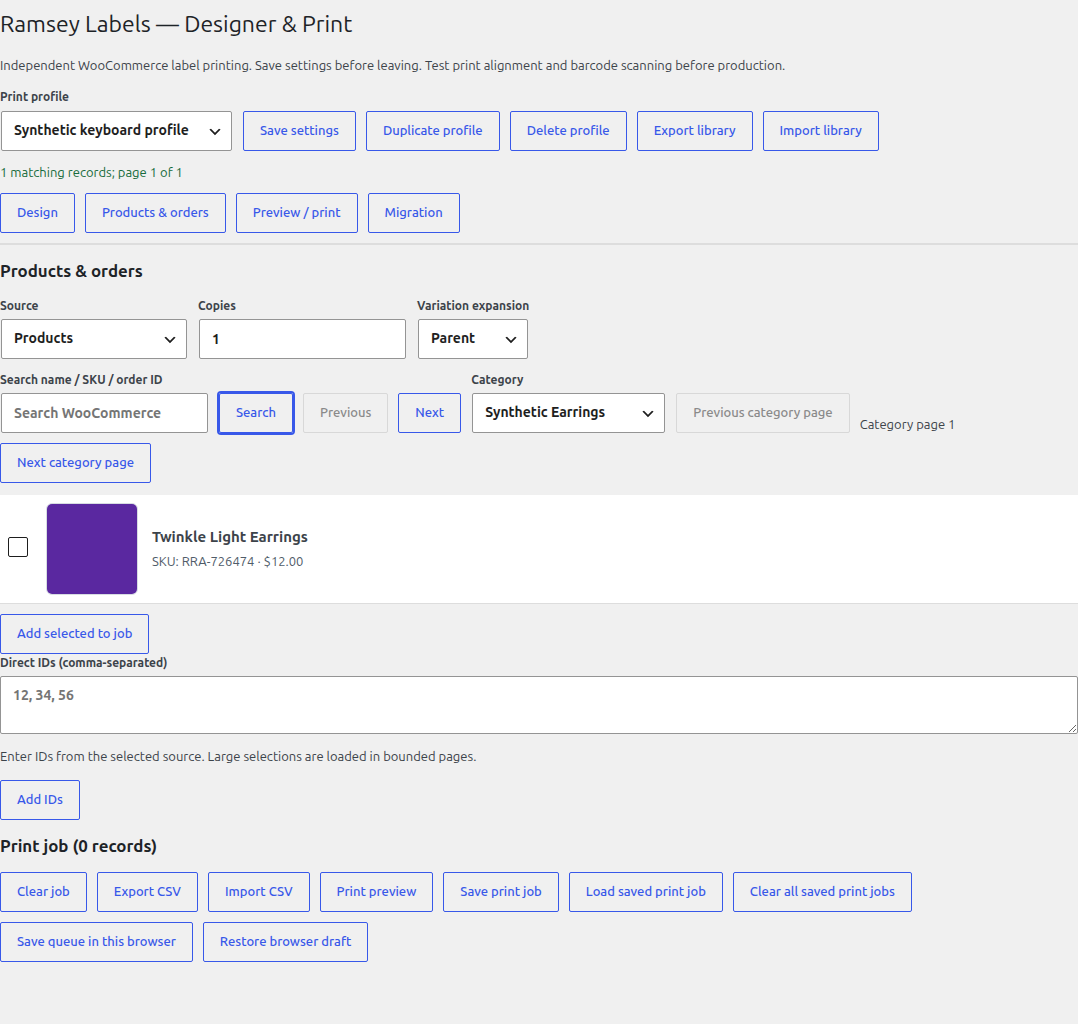
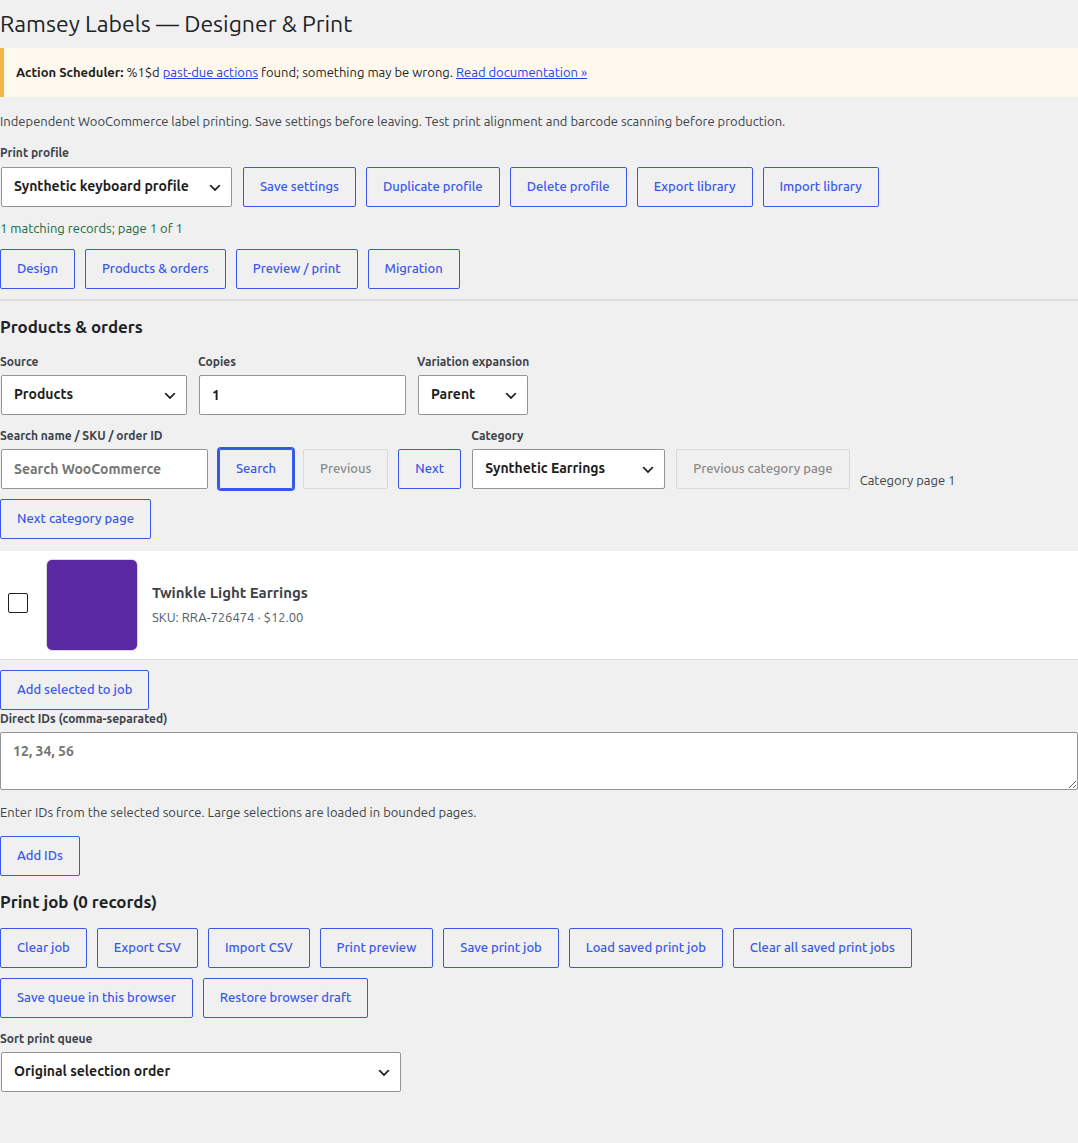
Verify WooCommerce thumbnails through bulk print queue

diff --git a/tests/Integration/run.php b/tests/Integration/run.php
@@ -18,6 +18,14 @@ function rejects($fn, $message) {
     check(false, $message);
 }
 function rest_status($response) { if(is_wp_error($response)){$data=$response->get_error_data();return isset($data['status'])?(int)$data['status']:401;}return $response->get_status(); }
+function thumbnail_attachment($slug,$red,$green,$blue){
+    $existing=get_posts(['post_type'=>'attachment','name'=>'rli-thumbnail-'.$slug,'posts_per_page'=>1,'post_status'=>'inherit','fields'=>'ids']);
+    if($existing)return (int)$existing[0];
+    $uploads=wp_upload_dir();$path=$uploads['path'].'/rli-thumbnail-'.$slug.'.png';
+    $image=imagecreatetruecolor(96,96);imagefill($image,0,0,imagecolorallocate($image,$red,$green,$blue));imagepng($image,$path);imagedestroy($image);
+    $attachment=wp_insert_attachment(['post_title'=>'RLI thumbnail '.$slug,'post_name'=>'rli-thumbnail-'.$slug,'post_mime_type'=>'image/png','post_status'=>'inherit'],$path);
+    require_once ABSPATH.'wp-admin/includes/image.php';wp_update_attachment_metadata($attachment,wp_generate_attachment_metadata($attachment,$path));return (int)$attachment;
+}
 $admin = get_user_by('login', 'labels_admin');
 wp_set_current_user($admin->ID);
 require_once ABSPATH.'wp-admin/includes/plugin.php';
@@ -34,15 +42,8 @@ $term = term_exists('Synthetic Earrings', 'product_cat');
 if (!$term) { $term = wp_insert_term('Synthetic Earrings', 'product_cat'); }
 $term_id = (int) $term['term_id'];
 wp_set_object_terms($id, [$term_id], 'product_cat');
-if (!$product->get_image_id()) {
-    $uploads=wp_upload_dir();
-    $path=$uploads['path'].'/synthetic-label.png';
-    $image=imagecreatetruecolor(64,64); imagefill($image,0,0,imagecolorallocate($image,90,40,160)); imagepng($image,$path); imagedestroy($image);
-    $attachment=wp_insert_attachment(['post_title'=>'Synthetic purple fixture', 'post_mime_type'=>'image/png', 'post_status'=>'inherit'],$path);
-    require_once ABSPATH.'wp-admin/includes/image.php';
-    wp_update_attachment_metadata($attachment,wp_generate_attachment_metadata($attachment,$path));
-    $product->set_image_id($attachment); $product->save();
-}
+$simple_thumbnail=thumbnail_attachment('simple',90,40,160);
+$product->set_image_id($simple_thumbnail);$product->save();
 $result=Data::searchProducts(['search'=>'RRA-726474']);
 check(count($result['items'])===1 && $result['items'][0]['id']===$id,'exact SKU search');
 check($result['items'][0]['image_url']!=='','product thumbnail');
@@ -130,10 +131,25 @@ $handoff=get_transient('rli_handoff_'.$admin->ID.'_'.$query['rli_job']);check($h
 check(isset(Plugin::rowActions([],get_post($id))['rli_labels']),'product row action');
 
 $variable_id=wc_get_product_id_by_sku('SYNTHETIC-PARENT');
-if(!$variable_id){$parent=new WC_Product_Variable();$parent->set_name('Synthetic variable');$parent->set_sku('SYNTHETIC-PARENT');$variable_id=$parent->save();$variation=new WC_Product_Variation();$variation->set_parent_id($variable_id);$variation->set_sku('SYNTHETIC-VAR-1');$variation->set_regular_price('12');$variation->set_status('publish');$variation->save();WC_Product_Variable::sync($variable_id);}
+if(!$variable_id){$parent=new WC_Product_Variable();$parent->set_name('Synthetic variable');$parent->set_sku('SYNTHETIC-PARENT');$parent->set_status('publish');$variable_id=$parent->save();}
+$parent=wc_get_product($variable_id);$parent_thumbnail=thumbnail_attachment('variation-parent',30,110,190);$parent->set_image_id($parent_thumbnail);$parent->save();
+$fallback_id=wc_get_product_id_by_sku('SYNTHETIC-VAR-1');
+if(!$fallback_id){$variation=new WC_Product_Variation();$variation->set_parent_id($variable_id);$variation->set_sku('SYNTHETIC-VAR-1');$variation->set_regular_price('12');$variation->set_status('publish');$fallback_id=$variation->save();}
+$fallback=wc_get_product($fallback_id);$fallback->set_image_id(0);$fallback->save();
+$own_id=wc_get_product_id_by_sku('SYNTHETIC-VAR-IMAGE');
+if(!$own_id){$variation=new WC_Product_Variation();$variation->set_parent_id($variable_id);$variation->set_sku('SYNTHETIC-VAR-IMAGE');$variation->set_regular_price('13');$variation->set_status('publish');$own_id=$variation->save();}
+$own=wc_get_product($own_id);$own_thumbnail=thumbnail_attachment('variation-own',200,70,50);$own->set_image_id($own_thumbnail);$own->save();WC_Product_Variable::sync($variable_id);
+$no_image_id=wc_get_product_id_by_sku('SYNTHETIC-NO-IMAGE');
+if(!$no_image_id){$no_image=new WC_Product_Simple();$no_image->set_name('Synthetic no-image product');$no_image->set_sku('SYNTHETIC-NO-IMAGE');$no_image->set_regular_price('2');$no_image->set_status('publish');$no_image_id=$no_image->save();}
+$expected_parent_image=(string)wp_get_attachment_image_url($parent_thumbnail,'medium');$expected_own_image=(string)wp_get_attachment_image_url($own_thumbnail,'medium');
 $variation_results=Data::searchProducts(['search'=>'SYNTHETIC-VAR-1']);
-check(in_array(wc_get_product_id_by_sku('SYNTHETIC-VAR-1'),array_column($variation_results['items'],'id'),true),'variation SKU search includes exact variation');
-check(count(Data::records(['ids'=>[$variable_id],'variations'=>'variations'])['records'])>=1,'variation expansion');
+check(in_array($fallback_id,array_column($variation_results['items'],'id'),true),'variation SKU search includes exact variation');
+$fallback_item=current(array_filter($variation_results['items'],function($item)use($fallback_id){return (int)$item['id']===$fallback_id;}));check($fallback_item['image_url']===$expected_parent_image,'variation without image returns parent thumbnail URL');
+$own_results=Data::searchProducts(['search'=>'SYNTHETIC-VAR-IMAGE']);$own_item=current(array_filter($own_results['items'],function($item)use($own_id){return (int)$item['id']===$own_id;}));check($own_item['image_url']===$expected_own_image,'variation own thumbnail URL is retained in SKU search');
+$no_image_results=Data::searchProducts(['search'=>'SYNTHETIC-NO-IMAGE']);check(current($no_image_results['items'])['image_url']==='','product without image returns an explicit empty thumbnail URL');
+$thumbnail_records=Data::records(['ids'=>[$own_id,$fallback_id,$no_image_id]])['records'];$thumbnail_values=[];foreach($thumbnail_records as $thumbnail_record)$thumbnail_values[$thumbnail_record['values']['sku']]=$thumbnail_record['values']['image_url'];
+check($thumbnail_values['SYNTHETIC-VAR-IMAGE']===$expected_own_image && $thumbnail_values['SYNTHETIC-VAR-1']===$expected_parent_image && $thumbnail_values['SYNTHETIC-NO-IMAGE']==='','bulk record projection preserves own, parent-fallback and missing thumbnail states');
+check(count(Data::records(['ids'=>[$variable_id],'variations'=>'variations'])['records'])>=2,'variation expansion preserves thumbnail-capable records');
 $order=wc_create_order();$order->add_product($product,2);$order->set_billing_first_name('Synthetic');$order->set_billing_last_name('Customer');$order->calculate_totals();$order->save();
 if(version_compare(WC_VERSION,'8.2','>='))check(Automattic\WooCommerce\Utilities\OrderUtil::custom_orders_table_usage_is_enabled()===(get_option('woocommerce_custom_orders_table_enabled')==='yes'),'actual order datastore mode matches requested mode');
 check(count(Data::orderItems($order->get_id())['items'])===1,'order CRUD items');

diff --git a/docs/release-readiness.md b/docs/release-readiness.md
@@ -42,12 +42,12 @@ Both RC10 checkpoints remain available as local branches, and RC10's original ZI
 | Current-stack WooCommerce integration | WordPress 7.1.4 / WooCommerce 11.2.2: 99 assertions each for legacy and HPOS via PHP CLI 7.4.33, 8.3.35 and 8.5.12; PHP 8.3.35 web stack also tested |
 | Oldest declared stack | WordPress 6.0.3 / WooCommerce 7.0.1 / PHP 7.4.33: 98 integration assertions and 27 Chromium scenarios, legacy storage |
 | Installed public-directory package integration | 99 assertions pass; 27 Chromium scenarios; RC9 public folder transition and option/job/SKU retention pass |
-| Browser | Current PHP 8.3.35 stack: 27 scenarios each on Chromium/Firefox/WebKit; PHP 8.5.12 web stack: 27 Chromium; oldest PHP 7.4.33 stack: 27 Chromium |
+| Browser | Current PHP 8.3.35 stack: 28 scenarios each on Chromium/Firefox/WebKit; PHP 8.5.12 web stack: 27 Chromium; oldest PHP 7.4.33 stack: 27 Chromium |
 | Installed legacy ZIP | All installed file hashes match manifest; 99 integration assertions, 27 Chromium E2E, streamed PDF checks; Plugin Check 2.1.0: 0 errors / 0 warnings |
 | Installed public ZIP | Guarded legacy-to-public directory transition, 99 integration assertions, 27 Chromium E2E, streamed PDF checks; Plugin Check 2.1.0: 0 errors / 0 warnings |
 | Multisite | 29 isolated integration assertions plus network-admin browser dry-run/assign/rollback |
 | Upgrade | Genuine RC8, RC9 and RC10 saved-library equality passes under PHP 7.4.33 (oldest stack), 8.3.35 and 8.5.12 CLI environments |
-| Queue/catalog | 301 product records across 11 bounded pages; all 301 selected IDs transferred with no duplicates |
+| Queue/catalog/thumbnails | 301 product records across 11 bounded pages; all 301 selected IDs transferred with no duplicates; browser assertions cover actual WooCommerce attachment images through search/category/bulk/queue/persistence/sort, own variation images, parent fallback and missing-image placeholder |
 | Calibration/PDF | Six A4 manufacturer layouts, generic requested counts, all-label counts, first/last positions, offsets/start slots, PDF physical media checked |
 | PDF/resource stress | 100,000-label arithmetic unit fixture; 4,500-page streamed PDF Poppler/page count and final-page barcode decode; cancellation and retry E2E pass |
 | JavaScript quality | ESLint and Prettier pass; WordPress POT regenerated without extraction warnings and matches a second deterministic generation |

diff --git a/README.md b/README.md
@@ -14,7 +14,7 @@ third-party code.
 
 - Product/variation name and SKU search, category filtering, paginated results and thumbnails.
 - Product row links and Products > All Products bulk-action queue handoffs.
-- Queue thumbnails, names, SKUs, prices, selection and quantities.
+- Queue thumbnails, names, SKUs, prices, selection and quantities; variation image or parent-image fallback, with a clear missing-image placeholder.
 - Automatic, vertically stacked previews of every page in each bounded segment, with Previous/Next segment navigation; streamed PDF includes every selected label.
 - Thermal roll and sheet geometry, skipped slots, offsets and saved print profiles.
 - Visual text, barcode, image and shape elements; optional inert HTML layouts.
@@ -46,6 +46,8 @@ pass. The origin of inherited RC8 code is separately audited and remains unverif
 ![Synthetic product-search result and queued label with thumbnail, SKU and price](docs/assets/synthetic-product-search.png)
 
 ![Synthetic vertically stacked batch preview and full-batch PDF controls](docs/assets/synthetic-batch-preview.png)
+
+![Rendered WooCommerce variation thumbnail queue: own image, parent fallback, and missing-image placeholder](docs/assets/synthetic-thumbnail-queue.png)
 
 ## Requirements and installation
 

diff --git a/docs/wordpress-org-submission.md b/docs/wordpress-org-submission.md
@@ -25,7 +25,7 @@ Authoritative guidance reviewed during engineering:
 
 ## Directory artwork (not included in plugin runtime ZIP)
 
-- [x] Synthetic product search/queue with generated purple product image: `docs/assets/synthetic-product-search.png`, `synthetic-product-queue.png`.
+- [x] Browser-rendered WooCommerce attachment thumbnails: `docs/assets/synthetic-product-search.png`, `synthetic-product-queue.png`, `synthetic-category-selection.png`, and `synthetic-thumbnail-queue.png` (own variation image, parent fallback, and explicit missing-image placeholder).
 - [x] 50.8 × 25.4 mm QR card design with exact synthetic SKU: `docs/assets/qr-label.png`, `synthetic-designer.png`.
 - [x] Complete vertically stacked synthetic batch preview: `docs/assets/synthetic-batch-preview.png`.
 - [ ] Owner reviews screenshots, transfers approved `screenshot-1.png`, `screenshot-2.png`, etc. to WordPress.org SVN assets, and confirms readme indices.
